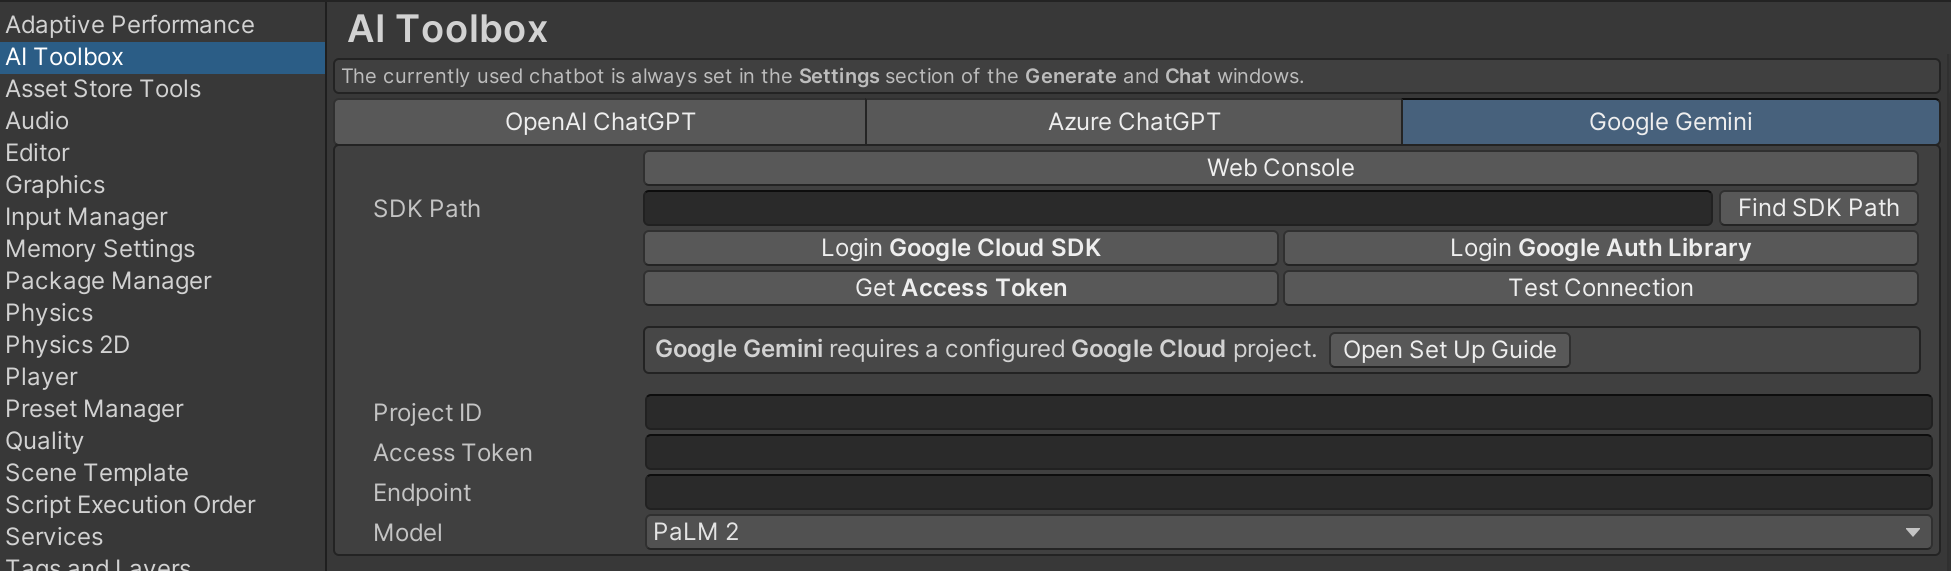
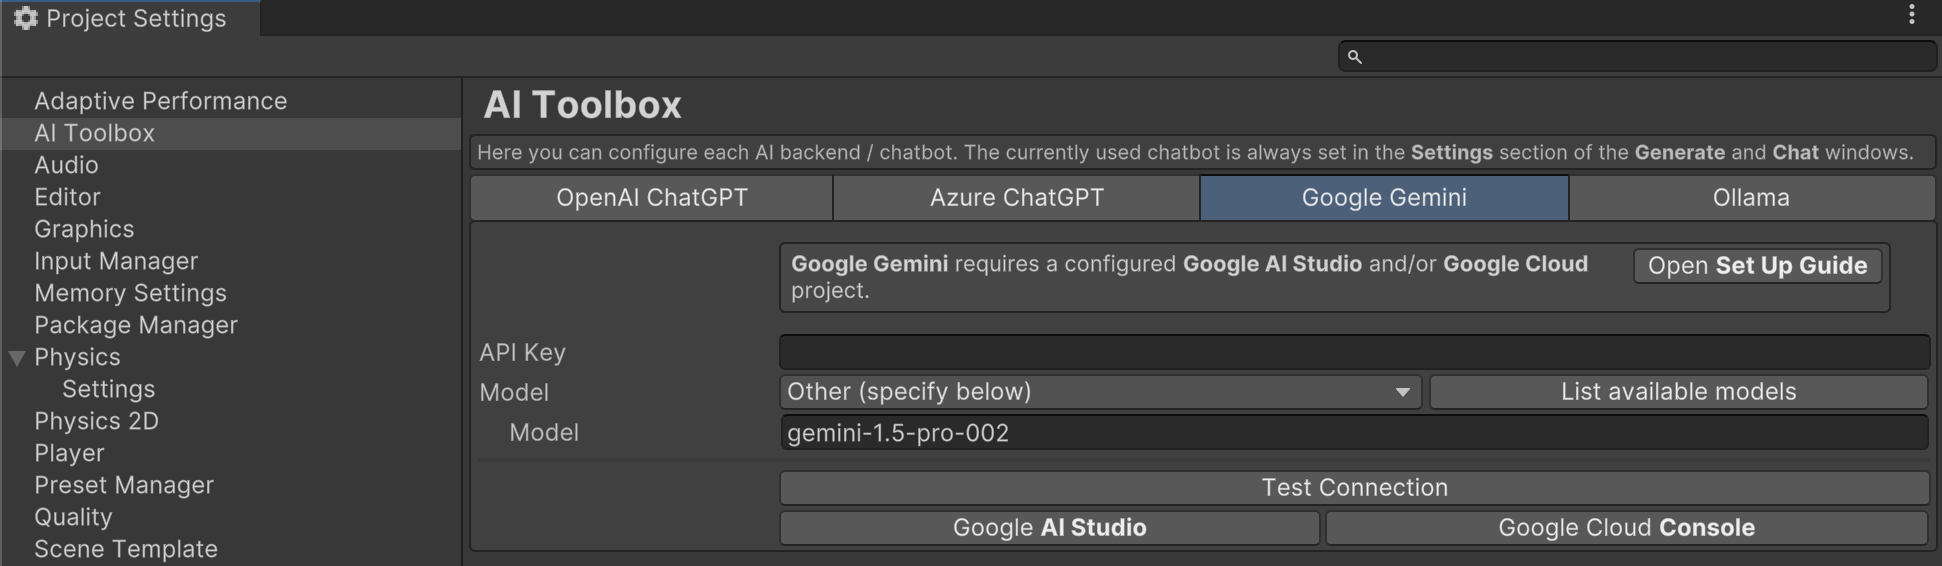
Getting Started update

diff --git a/_docs/40.getting-started.md b/_docs/40.getting-started.md
@@ -281,6 +281,17 @@ You can use Google Gemini AI model to generate scripts and chat with AI usin thi
 {:.image-caption}
 Gemini API Key and other settings
 
+### Ollama
+
+You can set up Ollama here to be able to use its various models in the generation and chat processes. The detailed step-by-step guide on the Ollama setup is [here](/llm-set-up/).
+
+a href="/assets/images/manual_images/sg-project-settings-ollama-cropped.png">
+![Gemini API Key and other settings](/assets/images/manual_images/sg-project-settings-ollama-cropped.png)
+</a>
+
+{:.image-caption}
+Ollama set up settings settings
+
 ### Generation Settings
 
 - **Default temperature** controls randomness: higher _Temperature_ results in more random completions. As the _Temperature_ approaches zero, the model will become deterministic and repetitive. Lower the _Temperature_ to get more or less the same results when you re-iterate script generation. Raise the _Temperature_ to get more diverse, creative and surprising results upon each completion. Current default _Temperature_ is 0.
